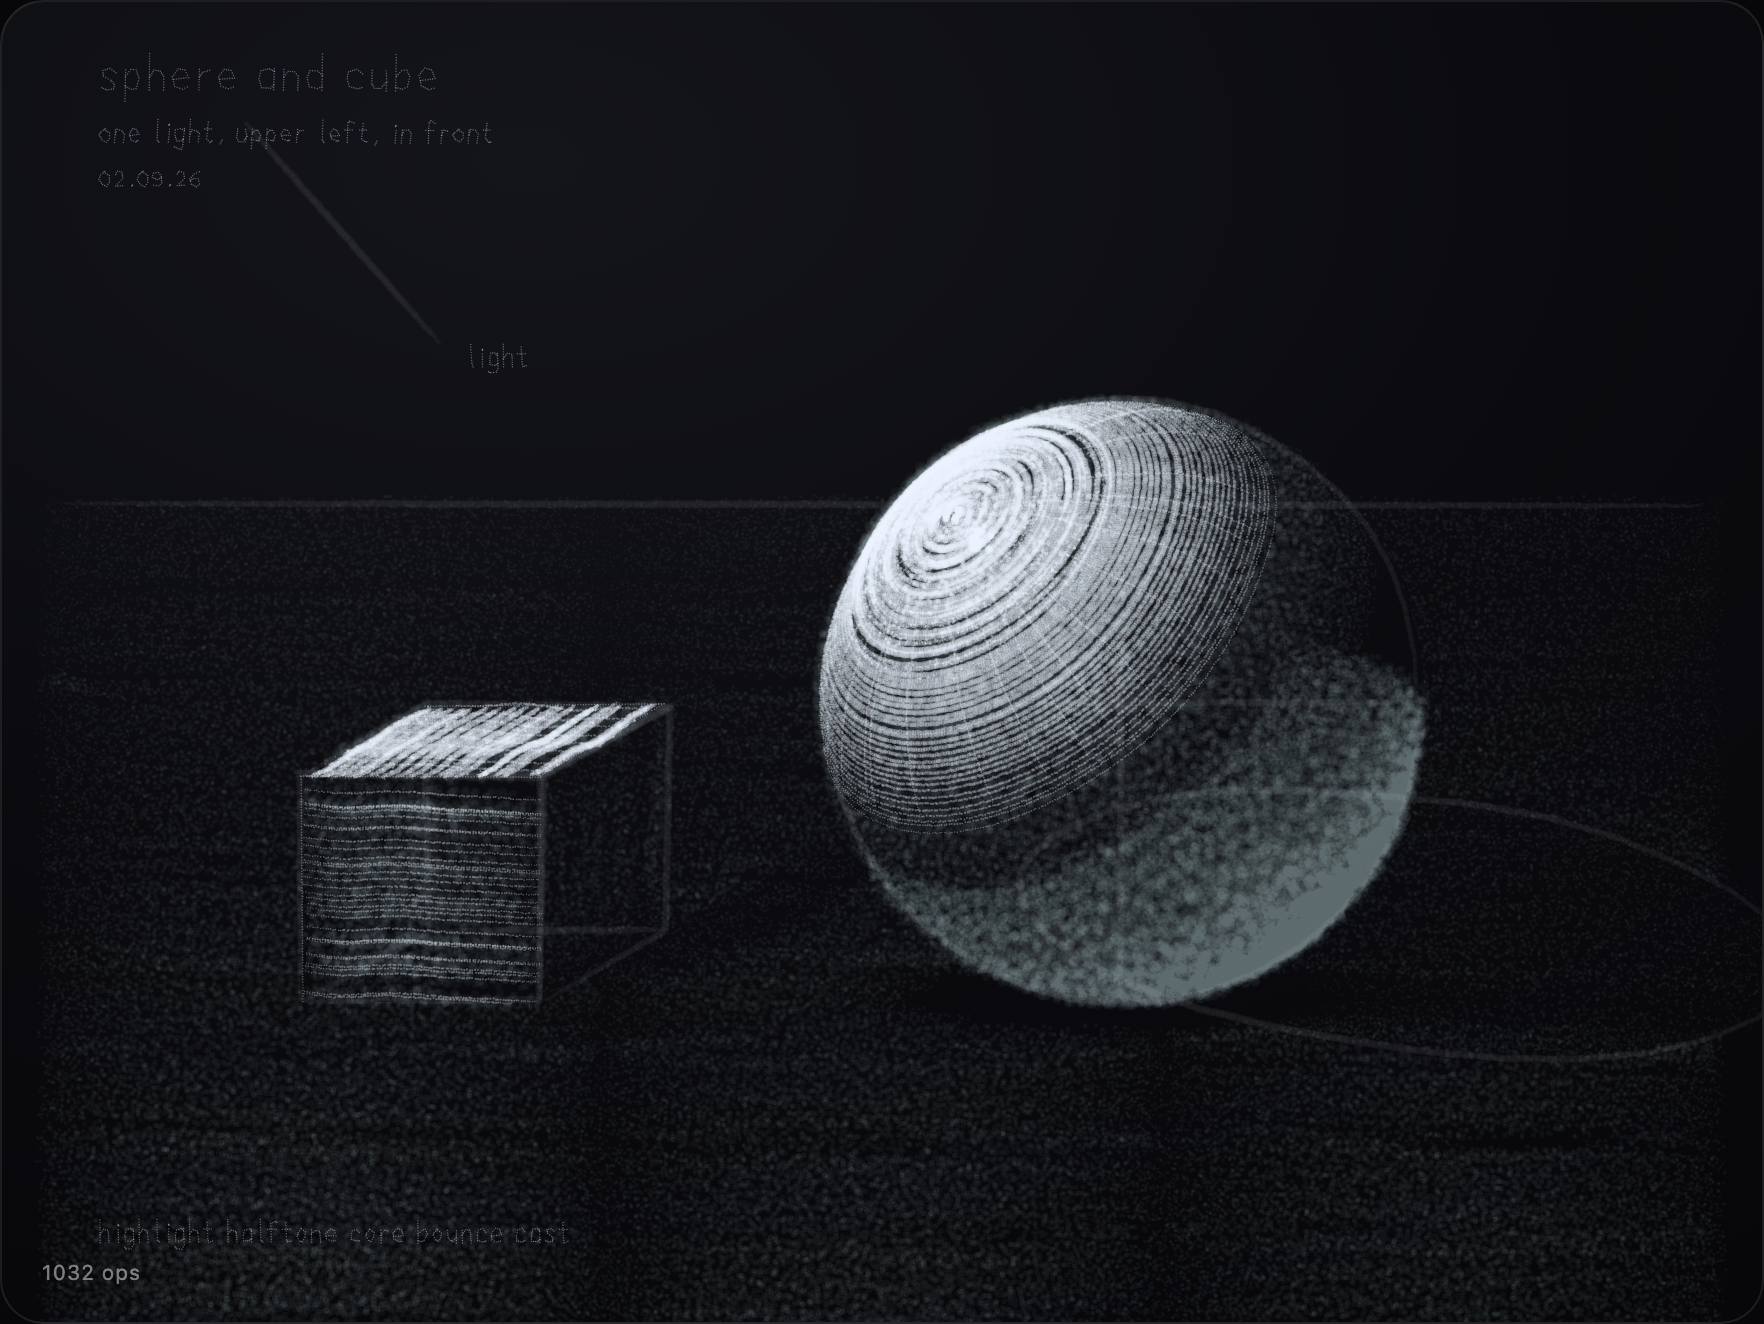
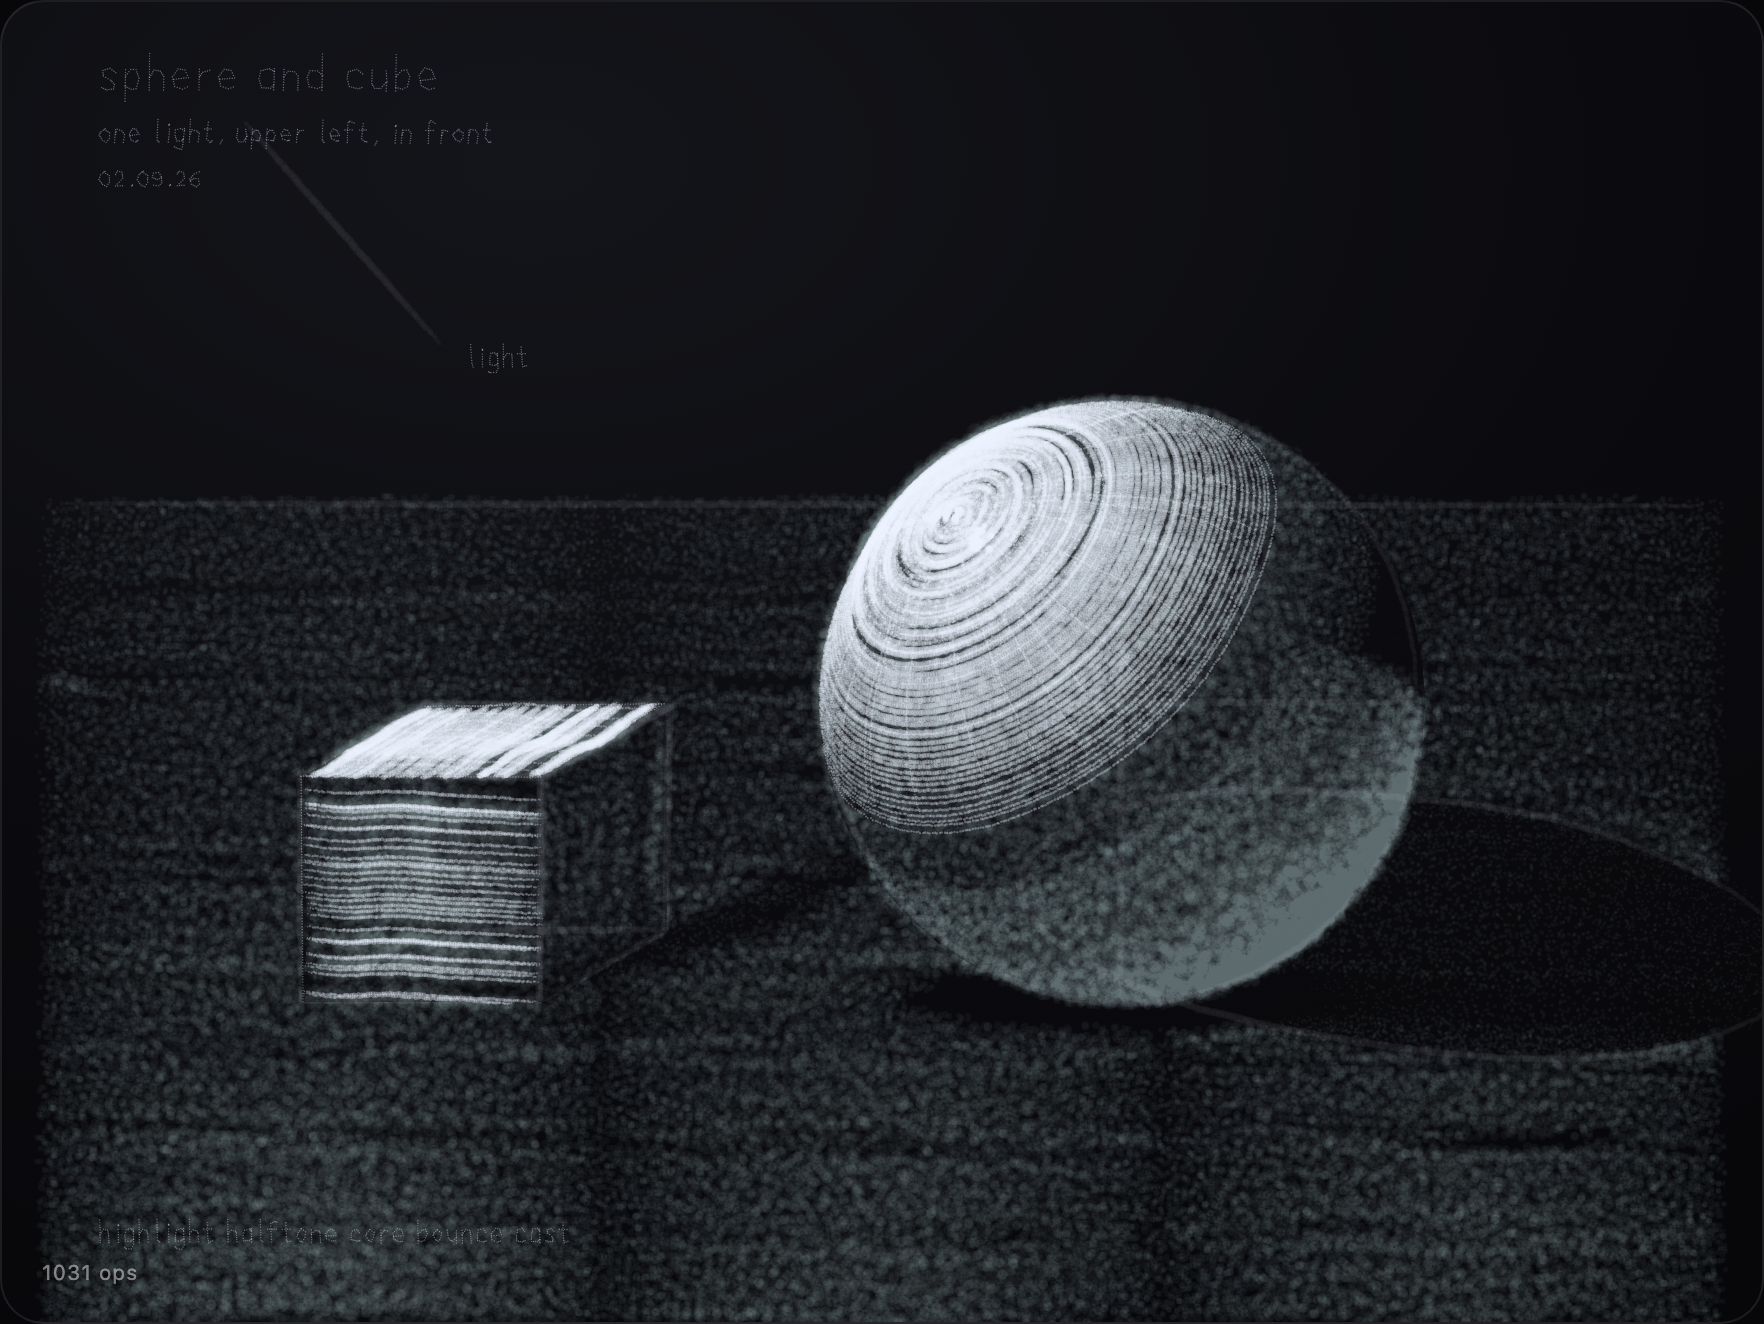
sketchbook: page 3, a hand at rest, built from lit forms
lib.js grows parametric-surface shading (tubes, ellipsoids, spheres),
a placed lamp with falloff, neighbour shadowing, convex-hull silhouettes,
cast shadows onto a plane. The page's note records where it still fails.

diff --git a/pages/hand.js b/pages/hand.js
@@ -1,0 +1,217 @@
+/* pages/hand.js — page 3. A hand at rest on the table, fingers curled, thumb out.
+ *
+ * Built as forms, not outlines: the fingers are tubes, the joints spheres, the
+ * palm a flattened egg. One light shades all of them the same way the sphere
+ * on page 2 was shaded, so the tone is right by construction. The question is
+ * whether the drawing reads.
+ */
+
+import { OP, PAUSE, PHASE, OCCLUDE, CLAMP, jitter, seed, textOps, BRUSHES } from '../mark-engine.js';
+import { norm, dot3, cross, shadeParam, tube, ellipsoid, sphere, hull, hatchPoly, passesFor, inside, castOnPlane } from './lib.js';
+
+export default {
+  title: 'a hand, resting',
+  date: '2026-09-02',
+  note: 'forms first: tubes, spheres, an egg for the palm, then the light. '
+      + 'four passes. the fingers work: they shade each other, the nails and creases sit. '
+      + 'it still reads as a glove, and the reason is the palm: an egg is a dome, and '
+      + 'the back of a hand is nearly flat and wider at the knuckles. one form is not enough there.',
+  build: buildHand,
+};
+
+const W = 880, H = 660;
+
+export function buildHand() {
+  const ops = [];
+  const wob = 1.15;
+  const S = 1.75;                          /* hand units → page px */
+  const O = [430, 468, 0];                 /* the wrist, on the page */
+  const beta = 0.66;                       /* tilt of the table: fingers go away and up */
+  const f = [0, -Math.cos(beta), -Math.sin(beta)];   /* forward, along the fingers */
+  const s = [1, 0, 0];                               /* sideways */
+  const n = cross(f, s);                             /* up off the table, toward us */
+  const L = norm([-0.5, -0.55, 0.68]);
+  const lamp = [O[0] - 340, O[1] - 420, 430];
+  const light = { lamp, lampFall: 900, ambient: 0.03, bounce: { dir: n.map((c) => -c), amt: 0.14 }, bucket: 0.08, gamma: 1.05 };
+  const P = (a, b, c) => [0, 1, 2].map((k) => O[k] + (f[k] * a + s[k] * b + n[k] * c) * S);
+  const tableO = P(0, 0, -2);
+
+  /* -------------------------------------------------- the forms */
+  const forms = []; /* { sample, uN, vN, kind, extra } */
+  const add = (sample, uN, vN, kind, extra = {}) => forms.push({ sample, uN, vN, kind, ...extra });
+
+  /* wrist and palm */
+  add(tube(P(-58, 0, 9), P(0, 0, 12), 27 * S, 31 * S, 12 * S, n), 12, 42, 'wrist');
+  add(ellipsoid(P(50, 1, 16), f, n, s, 66 * S, 11 * S, 44 * S), 56, 44, 'palm');
+
+  /* fingers: base b across the knuckles, lengths and radii per finger, curl
+   * increasing toward the little finger. nothing regular: seed everything. */
+  const fingers = [
+    { b: -33, len: [44, 27, 21], r: [9.6, 8.6, 7.6], curl: [8, 16, 14], spread: -9 },
+    { b: -11, len: [48, 30, 23], r: [10, 9, 8], curl: [7, 14, 13], spread: -2 },
+    { b: 11, len: [44, 28, 21], r: [9.2, 8.2, 7.2], curl: [8, 17, 15], spread: 5 },
+    { b: 32, len: [34, 22, 17], r: [8, 7, 6.2], curl: [11, 21, 18], spread: 13 },
+  ];
+  const rad = (d) => (d * Math.PI) / 180;
+  fingers.forEach((fg, fi) => {
+    const sp = rad(fg.spread + (seed(fi, 1) - 0.5) * 4);
+    /* forward direction of this finger in the hand frame, spread around n */
+    const fw = [Math.cos(sp), Math.sin(sp), 0];             /* (a, b, c) */
+    let J = [92, fg.b, 26];
+    let curl = 0;
+    /* knuckle */
+    add(sphere(P(...J), fg.r[0] * 1.04 * S, L), 22, 9, 'knuckle', { fi });
+    for (let k = 0; k < 3; k++) {
+      curl += rad(fg.curl[k] * (0.85 + seed(fi * 3 + k, 2) * 0.3));
+      const d = [fw[0] * Math.cos(curl), fw[1] * Math.cos(curl), -Math.sin(curl)];
+      const len = fg.len[k] * (0.94 + seed(fi, k + 5) * 0.12);
+      const J2 = [J[0] + d[0] * len, J[1] + d[1] * len, J[2] + d[2] * len];
+      const r0 = fg.r[k], r1 = k < 2 ? fg.r[k + 1] : fg.r[k] * 0.86;
+      /* the back of the finger faces "up" rotated by the curl */
+      const back = [fw[0] * Math.sin(curl), fw[1] * Math.sin(curl), Math.cos(curl)];
+      const backW = norm([0, 1, 2].map((q) => f[q] * back[0] + s[q] * back[1] + n[q] * back[2]));
+      add(tube(P(...J), P(...J2), r0 * S, r1 * S, null, backW), 14, Math.round((2 * Math.PI * r0 * S) / 3.2), 'phalanx', { fi, k, J, J2, back: backW, r0, r1, len });
+      const dW = norm([0, 1, 2].map((q) => f[q] * d[0] + s[q] * d[1] + n[q] * d[2]));
+      add(sphere(P(...J2), r1 * (k < 2 ? 0.98 : 0.94) * S, dW), 22, 8, k < 2 ? 'joint' : 'tip', { fi, k, dW });
+      J = J2;
+    }
+  });
+
+  /* thumb: out to the left and forward, three straight forms */
+  {
+    const segs = [
+      { d: [0.5, -0.84, 0.16], len: 40, r0: 12.5, r1: 11.5 },
+      { d: [0.68, -0.7, 0.2], len: 32, r0: 11, r1: 9.8 },
+      { d: [0.86, -0.46, 0.2], len: 26, r0: 9.6, r1: 8.2 },
+    ];
+    let J = [28, -44, 8];
+    segs.forEach((sg, k) => {
+      const d = norm(sg.d);
+      const J2 = [J[0] + d[0] * sg.len, J[1] + d[1] * sg.len, J[2] + d[2] * sg.len];
+      const backW = norm([0, 1, 2].map((q) => f[q] * 0.1 + n[q] * 0.95 - s[q] * 0.3));
+      add(tube(P(...J), P(...J2), sg.r0 * S, sg.r1 * S, null, backW), 14, Math.round((2 * Math.PI * sg.r0 * S) / 3.2), 'phalanx', { fi: 4, k, J, J2, back: backW, r0: sg.r0, r1: sg.r1, len: sg.len });
+      const dW = norm([0, 1, 2].map((q) => f[q] * d[0] + s[q] * d[1] + n[q] * d[2]));
+      add(sphere(P(...J2), sg.r1 * (k < 2 ? 0.98 : 0.94) * S, dW), 22, 8, k < 2 ? 'joint' : 'tip', { fi: 4, k, dW });
+      J = J2;
+    });
+  }
+
+  /* -------------------------------------------------- shade everything, then sort by depth */
+  const shaded = forms.map((fm) => {
+    const modulate = fm.fi !== undefined && fm.fi > 0 && fm.fi < 4
+      ? (p, nn) => 1 - 0.45 * Math.max(0, -dot3(nn, s) - 0.1)
+      : fm.kind === 'palm' ? () => 0.82 : null;
+    const r = shadeParam(fm.sample, fm.uN, fm.vN, L, wob, { ...light, modulate, proj: (p) => [p[0], p[1]] });
+    /* cross-contour on the tubes, light, only where lit */
+    if (fm.kind === 'phalanx' || fm.kind === 'palm') {
+      const x = shadeParam((u, v) => fm.sample(v, u), fm.vN, Math.round(fm.uN * 0.5), L, wob * 1.1, {
+        ...light, modulate, passes: (l) => (l > 0.5 ? [['brush', 0.1 + (l - 0.5) * 0.35, 'accent']] : []),
+      });
+      r.ops.push(...x.ops);
+    }
+    return { ...fm, ...r };
+  });
+  for (const fm of shaded) if (fm.kind === 'wrist') fm.z = -1e8; /* the wrist goes under the heel */
+  shaded.sort((a, b) => a.z - b.z); /* far first */
+
+  /* cast shadows on the table: every form's silhouette, thrown along the light */
+  const shadows = shaded.map((fm) => {
+    const pts = [];
+    for (let i = 0; i <= 10; i++) for (let j = 0; j <= 10; j++) {
+      const q = castOnPlane(fm.sample(i / 10, j / 10).p, tableO, n, L);
+      pts.push([q[0], q[1]]);
+    }
+    return hull(pts);
+  });
+  const inShadow = (p) => shadows.some((poly) => inside(p, poly));
+
+  /* -------------------------------------------------- construction */
+  ops.push(PHASE('Construction'));
+  ops.push(OP('g', jitter([[P(-60, 0, 0)[0], P(-60, 0, 0)[1]], [P(150, 0, 0)[0], P(150, 0, 0)[1]]], wob * 1.4), 'under', 'brush'));
+  ops.push(OP('g', jitter([P(92, -48, 26).slice(0, 2), P(92, 48, 26).slice(0, 2)], wob * 1.4), 'under', 'brush'));
+  for (const fm of shaded) if (fm.kind === 'phalanx') ops.push(OP('g', jitter([P(...fm.J).slice(0, 2), P(...fm.J2).slice(0, 2)], wob), 'under', 'brush'));
+  ops.push(OP('g', jitter(hull(shaded.find((x) => x.kind === 'palm').pts2).concat([]), wob * 1.6), 'under', 'brush'));
+  ops.push(PAUSE(320));
+
+  /* -------------------------------------------------- table, first */
+  ops.push(PHASE('Table'));
+  const bands = 8, y0 = 150, y1 = H - 20;
+  for (let b = 0; b < bands; b++) {
+    const ya = y0 + ((y1 - y0) * b) / bands, yb = y0 + ((y1 - y0) * (b + 1)) / bands;
+    const t = (b + 0.5) / bands;
+    for (let c = 0; c < 3; c++) {
+      const xa = 20 + ((W - 40) * c) / 3, xb = 20 + ((W - 40) * (c + 1)) / 3;
+      const lum = (0.1 + 0.34 * t) * (1 - 0.45 * ((c + 0.5) / 3));
+      ops.push(...hatchPoly([[xa, ya], [xb, ya], [xb, yb], [xa, yb]], 0.01 + (seed(b, c) - 0.5) * 0.04, 4.2 - t * 1.2, wob, [['wash', 0.25 + lum * 0.75, 'tone']], inShadow, b * 3 + c));
+    }
+  }
+  /* the shadow is not black: bounce, and it is softest far from the contact */
+  for (const poly of shadows) ops.push(...hatchPoly(poly, 0.03, 5, wob, [['wash', 0.11, 'tone']], null, 91));
+  ops.push(PAUSE(260));
+
+  /* -------------------------------------------------- the hand, far to near */
+  let lastKind = null;
+  for (const fm of shaded) {
+    const label = fm.kind === 'palm' ? 'Palm' : fm.kind === 'wrist' ? 'Wrist' : fm.fi === 4 ? 'Thumb' : ['Index', 'Middle', 'Ring', 'Little'][fm.fi];
+    if (label !== lastKind) { ops.push(PHASE(label)); lastKind = label; }
+    ops.push(OCCLUDE(hull(fm.pts2), 0.96));
+    ops.push(...fm.ops);
+    /* edges: a broken liner along each tube's two sides, heavier on the dark side */
+    if (fm.kind === 'phalanx') {
+      for (const side of [0.25, 0.75]) {
+        const pts = [];
+        for (let i = 0; i <= 10; i++) pts.push(fm.sample(i / 10, side).p.slice(0, 2));
+        const nrm = fm.sample(0.5, side).n;
+        const lit = Math.max(0, dot3(nrm, L));
+        ops.push(OP('s', jitter(pts, wob * 0.9), 'line', 'liner', 0.3 + (1 - lit) * 0.5));
+      }
+      /* crease at the base joint, on the back */
+      if (fm.k > 0) {
+        for (let c = 0; c < 2; c++) {
+          const pts = [];
+          for (let j = -4; j <= 4; j++) pts.push(fm.sample(0.04 + c * 0.05, (j / 4) * (0.12 + c * 0.04)).p.slice(0, 2));
+          ops.push(OP('s', jitter(pts, wob * 0.7), 'accent', 'eraser', 0.28));
+          ops.push(OP('s', jitter(pts, wob * 0.7), 'tone', 'eraser', 0.22));
+        }
+      }
+      /* nail on the last phalanx: an outline and one lit stroke */
+      if (fm.k === 2) {
+        const pts = [];
+        for (let i = 0; i <= 20; i++) {
+          const t = (i / 20) * Math.PI * 2;
+          pts.push(fm.sample(0.66 + 0.3 * Math.cos(t), 0.11 * Math.sin(t)).p.slice(0, 2));
+        }
+        ops.push(OP('s', jitter(pts, wob * 0.5), 'accent', 'eraser', 0.3));
+        ops.push(OP('s', jitter(pts, wob * 0.5), 'line', 'liner', 0.7));
+        const hl = [];
+        for (let i = 0; i <= 6; i++) hl.push(fm.sample(0.48 + 0.4 * (i / 6), -0.04).p.slice(0, 2));
+        ops.push(OP('s', jitter(hl, wob * 0.5), 'accent', 'chalk', 0.34));
+      }
+    }
+    if (fm.kind === 'palm') {
+      /* tendons fanning from the wrist to each knuckle, faint, on the top of the egg */
+      const C = P(50, 1, 16);
+      for (const fg of fingers) {
+        const pts = [];
+        for (let i = 0; i <= 12; i++) {
+          const a = 20 + 66 * (i / 12), b = fg.b * (0.25 + 0.75 * (i / 12));
+          const da = (a - 50) / 66, db = (b - 1) / 44;
+          const h = Math.sqrt(Math.max(0, 1 - da * da - db * db)) * 11;
+          pts.push(P(a, b, 16 + h - 0.5).slice(0, 2));
+        }
+        ops.push(OP('s', jitter(pts, wob * 0.8), 'accent', 'chalk', 0.16 + Math.max(0, -fg.b) * 0.004));
+      }
+      /* the arc of the knuckles, where the egg meets the fingers, is a real edge */
+    }
+  }
+  ops.push(CLAMP('tone', BRUSHES.wash.ceiling));
+  ops.push(PAUSE(300));
+
+  /* -------------------------------------------------- margin */
+  ops.push(PHASE('Margin'));
+  ops.push(...textOps('a hand, resting', 48, 44, 18, 'line', 'liner', 0.6, 0.45));
+  ops.push(...textOps('tubes, spheres, an egg', 48, 70, 11, 'line', 'liner', 0.6, 0.32));
+  ops.push(...textOps('02.09.26', 48, 92, 11, 'line', 'liner', 0.6, 0.3));
+  ops.push(...textOps('one light, upper left', W - 250, H - 40, 11, 'line', 'liner', 0.6, 0.3));
+  return ops;
+}

diff --git a/pages/lib.js b/pages/lib.js
@@ -24,14 +24,11 @@ export function passesFor(lum, opts = {}) {
   const k = opts.gain || 1;
   const l = Math.min(1, lum);
   const out = [];
-  /* wash: width IS the gradient. thin strokes barely overlap (near-black),
-   * wide ones stack to the ceiling. the tone layer is clamped, so it can
-   * never carry anything brighter than the ceiling. */
-  if (l > 0.02) out.push(['wash', (0.12 + l * 0.5) * k, 'tone']);
-  /* brush on ACCENT — above the clamp. this is the halftone-to-light ramp. */
-  if (l > 0.45) out.push(['brush', (0.1 + (l - 0.45) * 0.75) * k, 'accent']);
-  /* chalk last, sparse: it is grainy by nature (dry media breaks on speed) */
-  if (l > 0.85) out.push(['chalk', (0.2 + (l - 0.85) * 2) * k, 'accent']);
+  /* every stroke thins to ~half width at its ends (the hand slows there), so
+   * these widths are set for the ends to still touch their neighbours. */
+  if (l > 0.02) out.push(['wash', (0.25 + l * 0.75) * k, 'tone']);
+  if (l > 0.45) out.push(['brush', (0.2 + (l - 0.45) * 0.9) * k, 'accent']);
+  if (l > 0.86) out.push(['chalk', (0.2 + (l - 0.86) * 2) * k, 'accent']);
   return out;
 }
 
@@ -181,4 +178,134 @@ export function highlight(x, y, r, count = 9) {
     ops.push(DOT(x + Math.cos(a) * d, y + Math.sin(a) * d, 1.2 + (1 - d / r) * 2.2, 'accent', 'chalk'));
   }
   return ops;
+}
+
+/* ------------------------------------------------ parametric surfaces */
+
+/** Convex hull (monotone chain) of 2D points — silhouettes of straight forms. */
+export function hull(points) {
+  const pts = points.slice().sort((a, b) => a[0] - b[0] || a[1] - b[1]);
+  if (pts.length < 3) return pts;
+  const cr = (o, a, b) => (a[0] - o[0]) * (b[1] - o[1]) - (a[1] - o[1]) * (b[0] - o[0]);
+  const lower = [];
+  for (const p of pts) { while (lower.length >= 2 && cr(lower[lower.length - 2], lower[lower.length - 1], p) <= 0) lower.pop(); lower.push(p); }
+  const upper = [];
+  for (let i = pts.length - 1; i >= 0; i--) { const p = pts[i]; while (upper.length >= 2 && cr(upper[upper.length - 2], upper[upper.length - 1], p) <= 0) upper.pop(); upper.push(p); }
+  upper.pop(); lower.pop();
+  return lower.concat(upper);
+}
+
+/** Brightness of a surface point under key light L (+ambient, +bounce). */
+export function shade(n, L, opts = {}, p = null) {
+  let dir = L, k = 1;
+  if (opts.lamp && p) {
+    /* a lamp at a place, not a direction: light falls off across the subject */
+    const v = [opts.lamp[0] - p[0], opts.lamp[1] - p[1], opts.lamp[2] - p[2]];
+    const d = Math.hypot(...v);
+    dir = v.map((c) => c / d);
+    const D = opts.lampFall || 700;
+    k = 1 / (0.55 + 0.45 * (d / D) * (d / D));
+  }
+  let lum = Math.max(0, dot3(n, dir)) * k + (opts.ambient ?? 0.03);
+  if (opts.bounce) lum += Math.max(0, dot3(n, norm(opts.bounce.dir))) * opts.bounce.amt;
+  if (opts.modulate && p) lum *= opts.modulate(p, n);
+  if (opts.gamma) lum = Math.pow(Math.min(1, lum), opts.gamma);
+  return lum;
+}
+
+/**
+ * Shade any parametric surface with strokes along u at fixed v.
+ *   sample(u, v) → { p: [x, y, z], n: [nx, ny, nz] }   z toward the viewer
+ * Each stroke is split into front-facing runs, and each run into segments of
+ * roughly one brightness, so the passes can change along a stroke. Returns
+ * { ops, pts2 } — pts2 is every projected sample, for the silhouette.
+ */
+export function shadeParam(sample, uN, vN, L, wob, opts = {}) {
+  const ops = [];
+  const pts2 = [];
+  let zSum = 0, zN = 0;
+  const bucket = opts.bucket || 0.09;
+  const proj = opts.proj || ((p) => [p[0], p[1]]);
+  for (let j = 0; j <= vN; j++) {
+    const v = j / vN;
+    let run = []; /* [ [x,y], lum ] */
+    const flush = () => {
+      if (run.length > 2) {
+        /* split by brightness bucket, with one point of overlap */
+        let seg = [run[0]];
+        let b0 = Math.floor(run[0][1] / bucket);
+        for (let k = 1; k < run.length; k++) {
+          const b = Math.floor(run[k][1] / bucket);
+          seg.push(run[k]);
+          if (b !== b0 || k === run.length - 1) {
+            if (seg.length > 1) {
+              const lum = seg.reduce((s, q) => s + q[1], 0) / seg.length;
+              const pts = seg.map((q) => q[0]);
+              const passes = opts.passes ? opts.passes(lum) : passesFor(lum, opts);
+              const noise = 0.8 + seed(j, k) * 0.4; /* no two strokes weigh the same */
+              for (const [brush, w, layer] of passes) ops.push(OP('s', jitter(pts, wob), layer, brush, w * noise));
+            }
+            seg = [run[k]];
+            b0 = b;
+          }
+        }
+      }
+      run = [];
+    };
+    for (let i = 0; i <= uN; i++) {
+      const u = i / uN;
+      const { p, n } = sample(u, v);
+      const q = proj(p);
+      if (n[2] > (opts.facing ?? 0.04)) { pts2.push(q); run.push([q, shade(n, L, opts, p)]); zSum += p[2]; zN++; } else flush();
+    }
+    flush();
+  }
+  return { ops, pts2, z: zN ? zSum / zN : -1e9 };
+}
+
+/** A straight tube from A to B, radius r0→r1, elliptical if ry given. */
+export function tube(A, B, r0, r1 = r0, ry = null, hint = null) {
+  const axis = norm([B[0] - A[0], B[1] - A[1], B[2] - A[2]]);
+  let [e1, e2] = basis(axis);
+  if (hint) {
+    const d = dot3(hint, axis);
+    e1 = norm([hint[0] - axis[0] * d, hint[1] - axis[1] * d, hint[2] - axis[2] * d]);
+    e2 = cross(axis, e1);
+  }
+  const L = Math.hypot(B[0] - A[0], B[1] - A[1], B[2] - A[2]);
+  return (u, v) => {
+    const th = v * Math.PI * 2;
+    const r = r0 + (r1 - r0) * u;
+    const rr = ry ? ry * (r / r0) : r;
+    const c = Math.cos(th), s = Math.sin(th);
+    const p = [0, 1, 2].map((k) => A[k] + axis[k] * u * L + e1[k] * c * r + e2[k] * s * rr);
+    /* normal of an ellipse cross-section */
+    const n = norm([0, 1, 2].map((k) => e1[k] * c / r + e2[k] * s / rr));
+    return { p, n };
+  };
+}
+
+/** An ellipsoid: centre C, orthonormal axes with semi-lengths. */
+export function ellipsoid(C, ax, ay, az, la, lb, lc) {
+  return (u, v) => {
+    const th = u * Math.PI * 2, ph = v * Math.PI;
+    const q = [Math.sin(ph) * Math.cos(th), Math.sin(ph) * Math.sin(th), Math.cos(ph)];
+    const p = [0, 1, 2].map((k) => C[k] + ax[k] * q[0] * la + ay[k] * q[1] * lb + az[k] * q[2] * lc);
+    const n = norm([0, 1, 2].map((k) => ax[k] * q[0] / la + ay[k] * q[1] / lb + az[k] * q[2] / lc));
+    return { p, n };
+  };
+}
+
+/** Rings on a sphere around an axis (for joints: cheap, few ops). */
+export function sphere(C, r, axis = [0, 0, 1]) {
+  const az = norm(axis);
+  const [ax, ay] = basis(az);
+  return ellipsoid(C, ax, ay, az, r, r, r);
+}
+
+/** Where a point's shadow lands on the plane through O with normal n, lit from L. */
+export function castOnPlane(p, O, n, L) {
+  const d = dot3(n, [p[0] - O[0], p[1] - O[1], p[2] - O[2]]);
+  const t = -d / dot3(n, L);
+  return [p[0] + L[0] * t, p[1] + L[1] * t, p[2] + L[2] * t];
 }

diff --git a/pages/study.js b/pages/study.js
@@ -97,6 +97,7 @@ export function buildStudy() {
   ops.push(OCCLUDE(arc(sx, sy, sr * 1.01, sr * 1.01, 0, Math.PI * 2, 48), 0.98));
   ops.push(...sphereRings(sx, sy, sr, L, wob, {
     step: 3.1,
+    gain: 0.78, /* the sphere likes thinner strokes than the hand does */
     ambient: 0.02,
     bounce: { dir: [0.15, 1, 0.35], amt: 0.34 }, /* off the table, from below */
   }));
